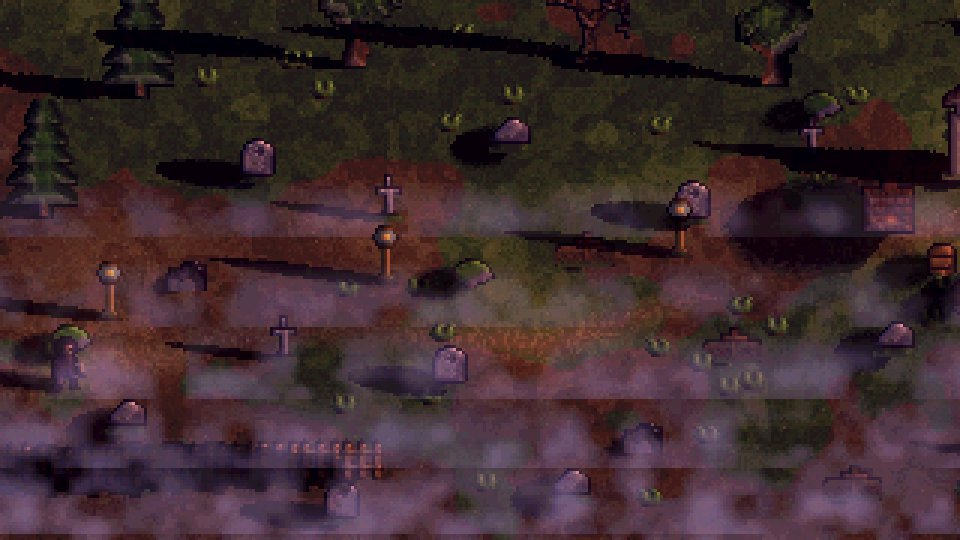
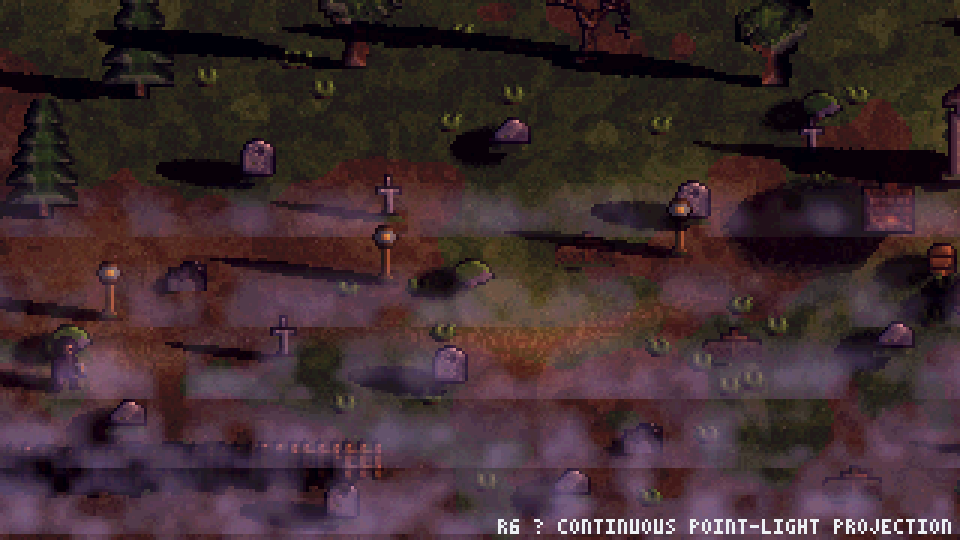
shadow-prototype: continuous point-light projection (fix staircase shadows)
Point-light projection maps altitude hyperbolically (alt/(lz-alt)), so
consecutive silhouette rows landed many pixels apart horizontally and the
per-column vertical fill could not bridge the horizontal jumps — lamp-lit
shadows decomposed into stacked rectangles ('stairway' look) at night.
projectSlot now interpolates between each source column's consecutive
landings with a clipped Bresenham walk, producing a continuous wedge.

Module URLs bumped to ?v=r6 and BUILD to r6 so the proxy cache and the
live-reload heartbeat deliver the fix to already-open tabs; docs gallery
and probe shots 30-31 (night / lamp-night chapel) refreshed.

Changed region(s): [[0.5938, 0.9481, 1.0, 1.0], [0.5, 0.9481, 0.5625, 1.0]]

diff --git a/shadow-prototype/src/shadows.js b/shadow-prototype/src/shadows.js
@@ -35,7 +35,7 @@
  *        squash = the characteristic wobble of these shadows.
  */
 
-import { clamp } from './util.js?v=r5';
+import { clamp } from './util.js?v=r6';
 
 export const TAU = Math.PI * 2;
 export const MAX_LIGHT_SHADOWS = 3;   // + 1 sun slot = the article's 4 shadows
@@ -457,6 +457,13 @@ export class ShadowSystem {
     const x0 = clip ? clip.x0 : 0, x1 = clip ? clip.x1 : W - 1;
     const y0 = clip ? clip.y0 : 0, y1 = clip ? clip.y1 : H - 1;
     const lastY = this._colY, touched = this._colTouched;
+    // per source-column previous landing, for row-to-row interpolation
+    let srcX = this._srcX, srcY = this._srcY;
+    if (!srcX || srcX.length < w) {
+      srcX = this._srcX = new Int16Array(w);
+      srcY = this._srcY = new Int16Array(w);
+    }
+    srcX.fill(-1, 0, w);
     let nT = 0, splats = 0;
     let tipVX = 0, tipVY = 0, tipAlt = -1;
 
@@ -477,14 +484,33 @@ export class ShadowSystem {
       const rowBase = py * w;
       for (let px = 0; px < w; px++) {
         const a0 = sd[rowBase * 4 + px * 4 + 3];
-        if (a0 === 0) continue;
+        if (a0 === 0) { srcX[px] = -1; continue; }
         // fake footprint depth: spread north with the distance from the centre,
         // otherwise a due-east sun collapses a billboard shadow into one line
         const dn = (px - pivot.x) * depthK;
         const sx = Math.round(baseSX + (px - pivot.x) + vx);
         const sy = Math.round(baseSY - (vy + dn) * sq);
-        if (sx < x0 || sx > x1) continue;
         const a = (a0 / 255) * alpha;
+        // Interpolate between this source column's previous and current
+        // landing. Point-light projection is hyperbolic in altitude, so
+        // consecutive rows can land many pixels apart horizontally; without
+        // the interpolation the shadow decomposes into stacked rectangles
+        // (the "staircase" artefact).
+        const px0 = srcX[px], py0 = srcY[px];
+        srcX[px] = sx; srcY[px] = sy;
+        if (px0 !== -1) {
+          const dx = sx - px0, dy = sy - py0;
+          const steps = Math.max(Math.abs(dx), Math.abs(dy));
+          for (let st = 1; st < steps; st++) {
+            const lx = px0 + Math.round((dx * st) / steps);
+            const lyv = py0 + Math.round((dy * st) / steps);
+            if (lx < x0 || lx > x1 || lyv < y0 || lyv > y1) continue;
+            const p = lyv * W + lx;
+            target[p] += a * (1 - target[p]);
+            splats++;
+          }
+        }
+        if (sx < x0 || sx > x1) continue;
         const ly = lastY[sx];
         if (ly === -1) {
           if (sy >= y0 && sy <= y1) {

diff --git a/shadow-prototype/src/renderer.js b/shadow-prototype/src/renderer.js
@@ -14,14 +14,14 @@
  * Every pass is timed; the HUD shows where the frame budget goes.
  */
 
-import { FrameBuffer, bayer } from './framebuffer.js?v=r5';
-import { ShadowSystem, MAX_LIGHT_SHADOWS } from './shadows.js?v=r5';
-import { LutController, ambientColorGradient, ambientIntensity, verticalFacingFactor } from './lighting.js?v=r5';
-import { buildTerrain } from './terrain.js?v=r5';
-import { FogSystem } from './fog.js?v=r5';
-import { makeShadowSet } from './pixelart.js?v=r5';
-import { drawText } from './debugfont.js?v=r5';
-import { BUILD, clamp, lerp } from './util.js?v=r5';
+import { FrameBuffer, bayer } from './framebuffer.js?v=r6';
+import { ShadowSystem, MAX_LIGHT_SHADOWS } from './shadows.js?v=r6';
+import { LutController, ambientColorGradient, ambientIntensity, verticalFacingFactor } from './lighting.js?v=r6';
+import { buildTerrain } from './terrain.js?v=r6';
+import { FogSystem } from './fog.js?v=r6';
+import { makeShadowSet } from './pixelart.js?v=r6';
+import { drawText } from './debugfont.js?v=r6';
+import { BUILD, clamp, lerp } from './util.js?v=r6';
 
 const TAU = Math.PI * 2;
 

diff --git a/shadow-prototype/src/main.js b/shadow-prototype/src/main.js
@@ -7,12 +7,12 @@
  */
 
 
-import { buildAssets } from './sprites.js?v=r5';
-import { Scene } from './scene.js?v=r5';
-import { Renderer } from './renderer.js?v=r5';
-import { Light, LUT_STYLES } from './lighting.js?v=r5';
-import { MAX_LIGHT_SHADOWS } from './shadows.js?v=r5';
-import { BUILD, clamp } from './util.js?v=r5';
+import { buildAssets } from './sprites.js?v=r6';
+import { Scene } from './scene.js?v=r6';
+import { Renderer } from './renderer.js?v=r6';
+import { Light, LUT_STYLES } from './lighting.js?v=r6';
+import { MAX_LIGHT_SHADOWS } from './shadows.js?v=r6';
+import { BUILD, clamp } from './util.js?v=r6';
 
 const VIEW_W = 320;
 const VIEW_H = 180;

diff --git a/shadow-prototype/src/sprites.js b/shadow-prototype/src/sprites.js
@@ -10,9 +10,9 @@
  *    merge them with a script in a normal map."
  */
 
-import { PixelCanvas, spriteFromRows, makeGlowSprite } from './pixelart.js?v=r5';
-import { clamp, mulberry32, valueNoise, shade as shadeRgb, hexToRgb } from './util.js?v=r5';
-import { bayer } from './framebuffer.js?v=r5';
+import { PixelCanvas, spriteFromRows, makeGlowSprite } from './pixelart.js?v=r6';
+import { clamp, mulberry32, valueNoise, shade as shadeRgb, hexToRgb } from './util.js?v=r6';
+import { bayer } from './framebuffer.js?v=r6';
 
 /* ------------------------------------------------------------------ palettes */
 

diff --git a/shadow-prototype/src/scene.js b/shadow-prototype/src/scene.js
@@ -6,9 +6,9 @@
  * object in this prototype.
  */
 
-import { Sun, Light, verticalFacingFactor } from './lighting.js?v=r5';
-import { ShadowCaster } from './shadows.js?v=r5';
-import { clamp, lerp, mulberry32, valueNoise } from './util.js?v=r5';
+import { Sun, Light, verticalFacingFactor } from './lighting.js?v=r6';
+import { ShadowCaster } from './shadows.js?v=r6';
+import { clamp, lerp, mulberry32, valueNoise } from './util.js?v=r6';
 
 export const WORLD_W = 480;
 export const WORLD_H = 260;

diff --git a/shadow-prototype/src/lighting.js b/shadow-prototype/src/lighting.js
@@ -12,7 +12,7 @@
  *     the distance at a very quick rate."
  */
 
-import { clamp, lerp, smoothstep, makeGradient, LUT_SIZE, LUT_W, LUT_H } from './util.js?v=r5';
+import { clamp, lerp, smoothstep, makeGradient, LUT_SIZE, LUT_W, LUT_H } from './util.js?v=r6';
 
 /** 5-bit -> 8-bit expansion so a 32-step LUT still reaches pure white. */
 const Q5 = new Uint8Array(32);

diff --git a/shadow-prototype/src/fog.js b/shadow-prototype/src/fog.js
@@ -13,7 +13,7 @@
  * bands than their feet — exactly the effect in the article's screenshot.
  */
 
-import { clamp, lerp, smoothstep, hash2i } from './util.js?v=r5';
+import { clamp, lerp, smoothstep, hash2i } from './util.js?v=r6';
 
 function tiledNoise(x, y, period, seed) {
   const xi = Math.floor(x), yi = Math.floor(y);

diff --git a/shadow-prototype/src/util.js b/shadow-prototype/src/util.js
@@ -147,4 +147,4 @@ export function buildLutTable(lutData) {
 
 // Build stamp: shown in the HUD and drawn into the pixel buffer so any
 // screenshot reveals which code generation produced it.
-export const BUILD = 'r5 · versioned modules + live reload';
+export const BUILD = 'r6 · continuous point-light projection';

diff --git a/shadow-prototype/src/terrain.js b/shadow-prototype/src/terrain.js
@@ -4,7 +4,7 @@
  * by (ambient + dynamic light) * shadow mask.
  */
 
-import { clamp, valueNoise, fbm, mulberry32 } from './util.js?v=r5';
+import { clamp, valueNoise, fbm, mulberry32 } from './util.js?v=r6';
 
 export function buildTerrain(w, h, seed = 1337, opts = {}) {
   const albedo = new Uint8Array(w * h * 3);

diff --git a/shadow-prototype/index.html b/shadow-prototype/index.html
@@ -233,7 +233,7 @@
   </div>
 </div>
 
-<script type="module" src="./src/main.js?v=r5"></script>
+<script type="module" src="./src/main.js?v=r6"></script>
 <script>
   /* Live-reload heartbeat: if the served sources change, every open page
      refreshes itself within a few seconds — no stale tab can survive. */

diff --git a/shadow-prototype/src/pixelart.js b/shadow-prototype/src/pixelart.js
@@ -11,8 +11,8 @@
  * normal map (RGB, z up).
  */
 
-import { clamp, hexToRgb, shade } from './util.js?v=r5';
-import { bayer } from './framebuffer.js?v=r5';
+import { clamp, hexToRgb, shade } from './util.js?v=r6';
+import { bayer } from './framebuffer.js?v=r6';
 
 export class PixelCanvas {
   constructor(w, h) {

diff --git a/shadow-prototype/src/framebuffer.js b/shadow-prototype/src/framebuffer.js
@@ -7,7 +7,7 @@
  * the HUD, exactly like a real render profiler would.
  */
 
-import { clamp, hexToRgb } from './util.js?v=r5';
+import { clamp, hexToRgb } from './util.js?v=r6';
 
 export class FrameBuffer {
   constructor(w, h, name = 'fb') {
